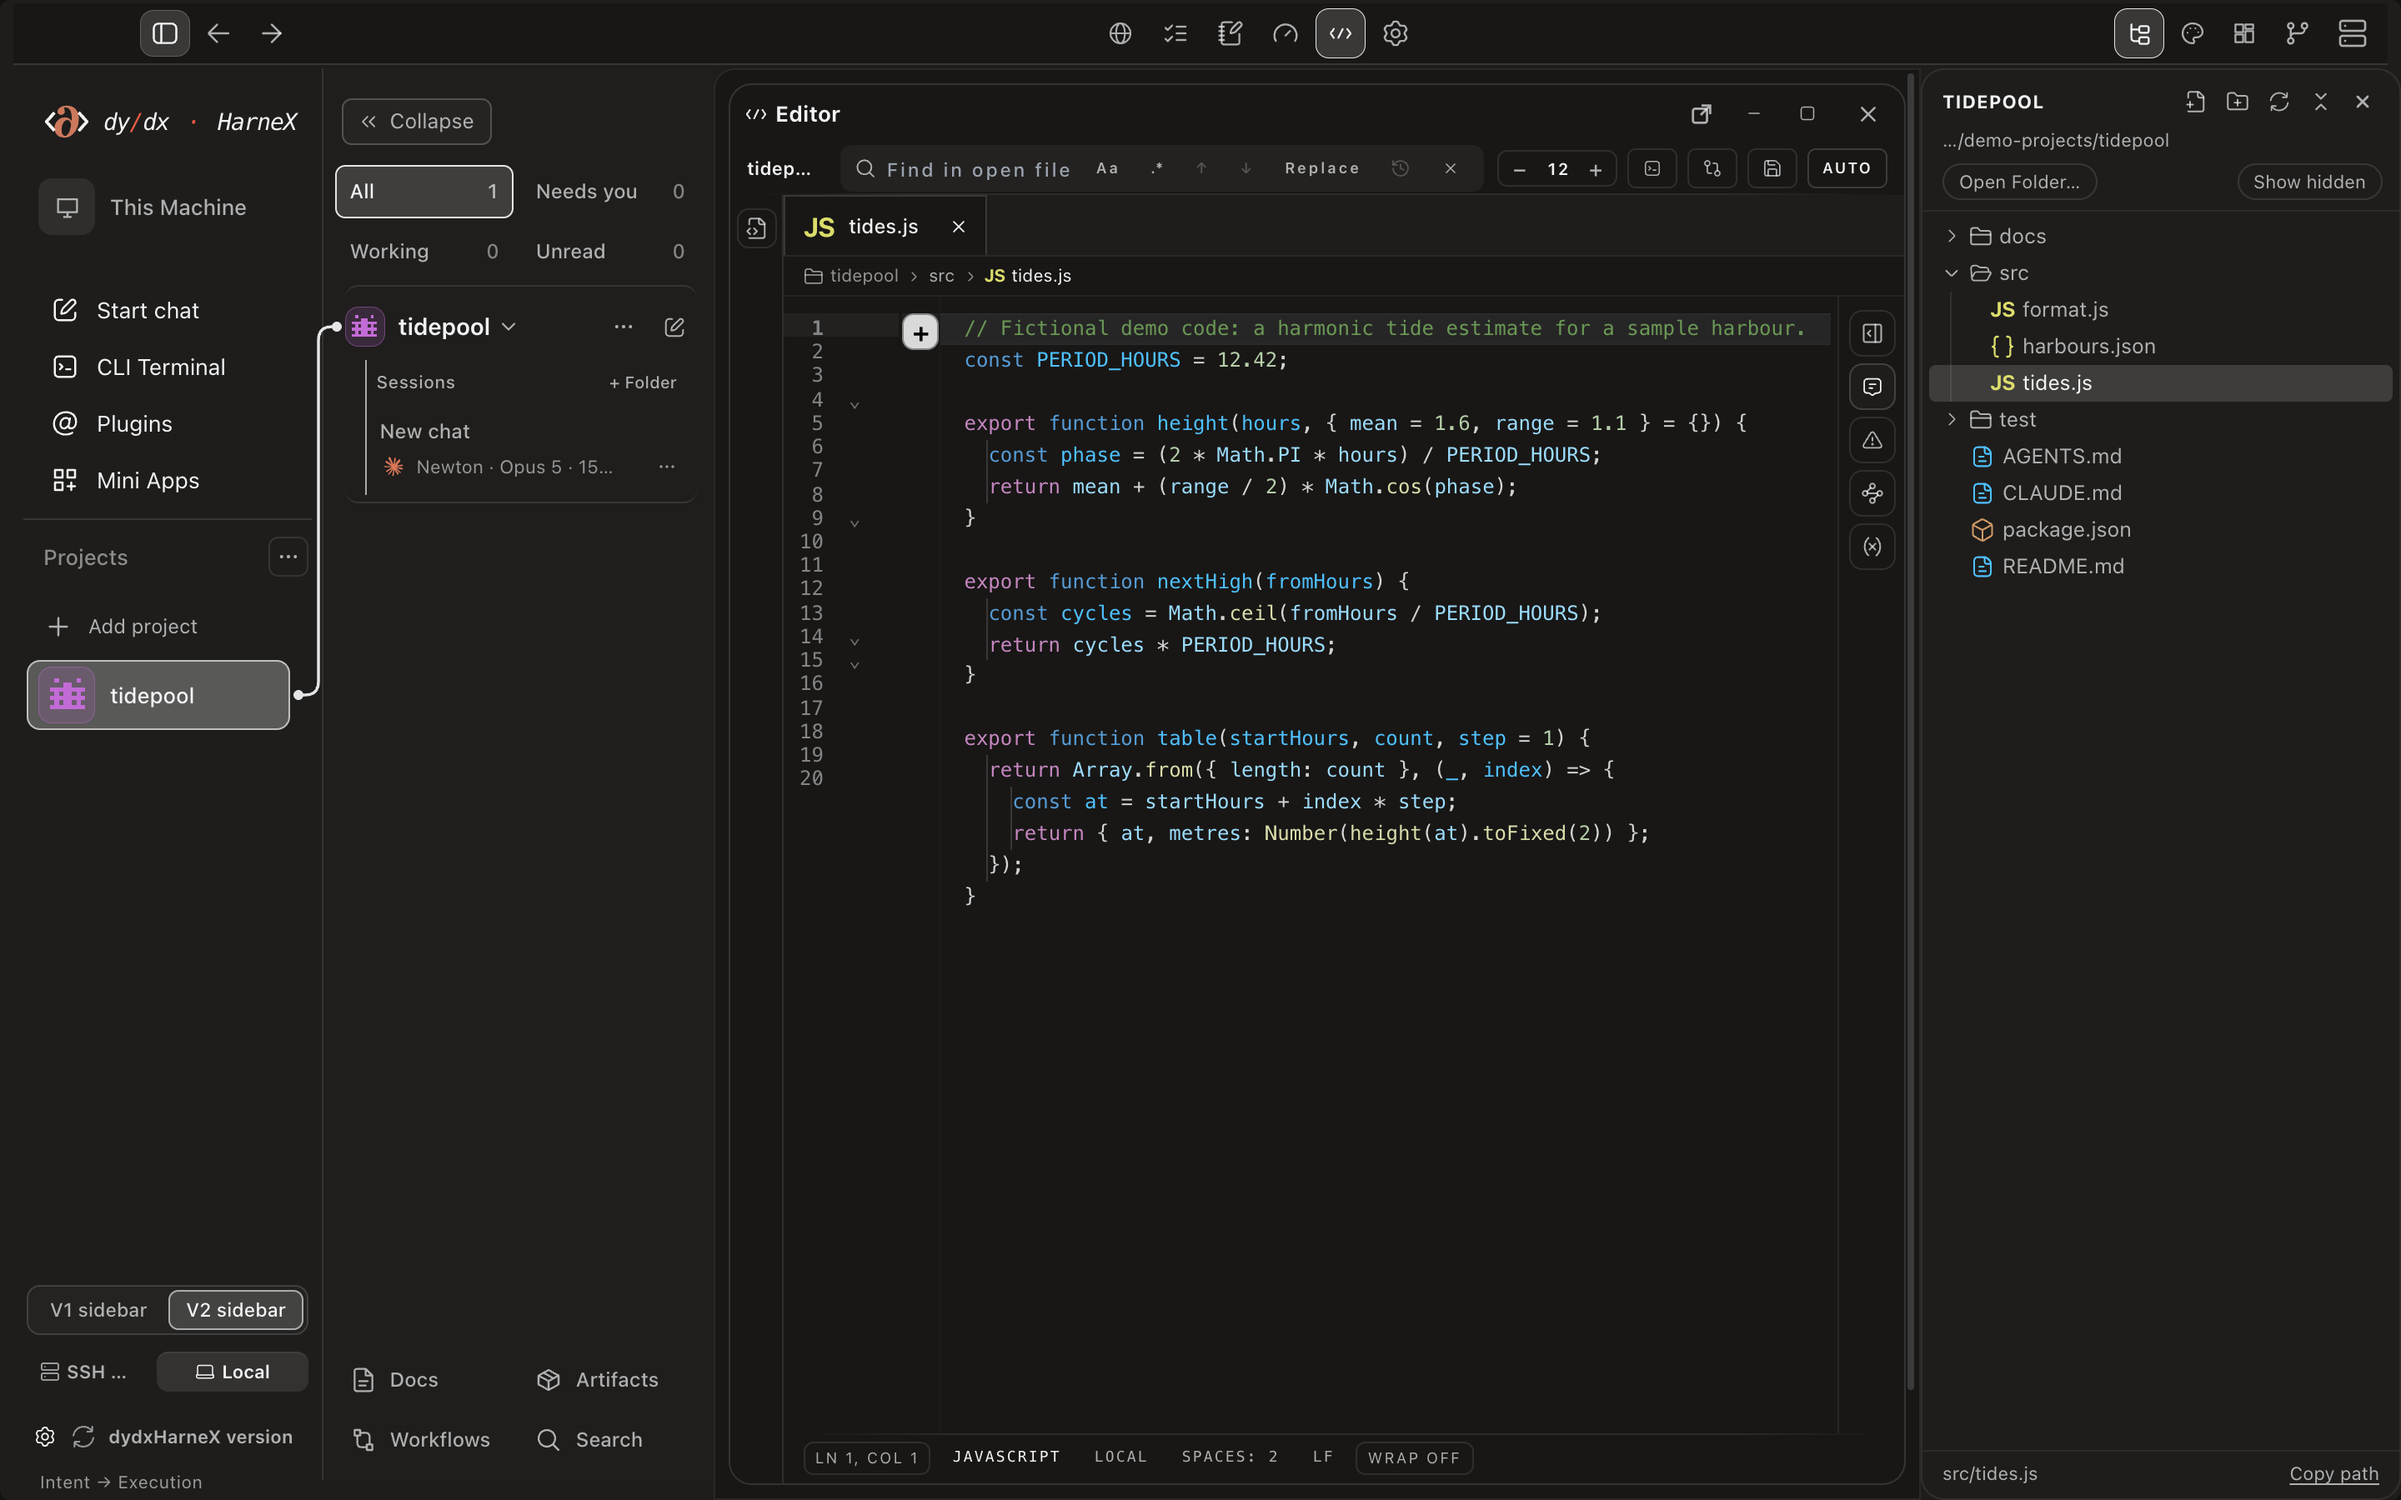
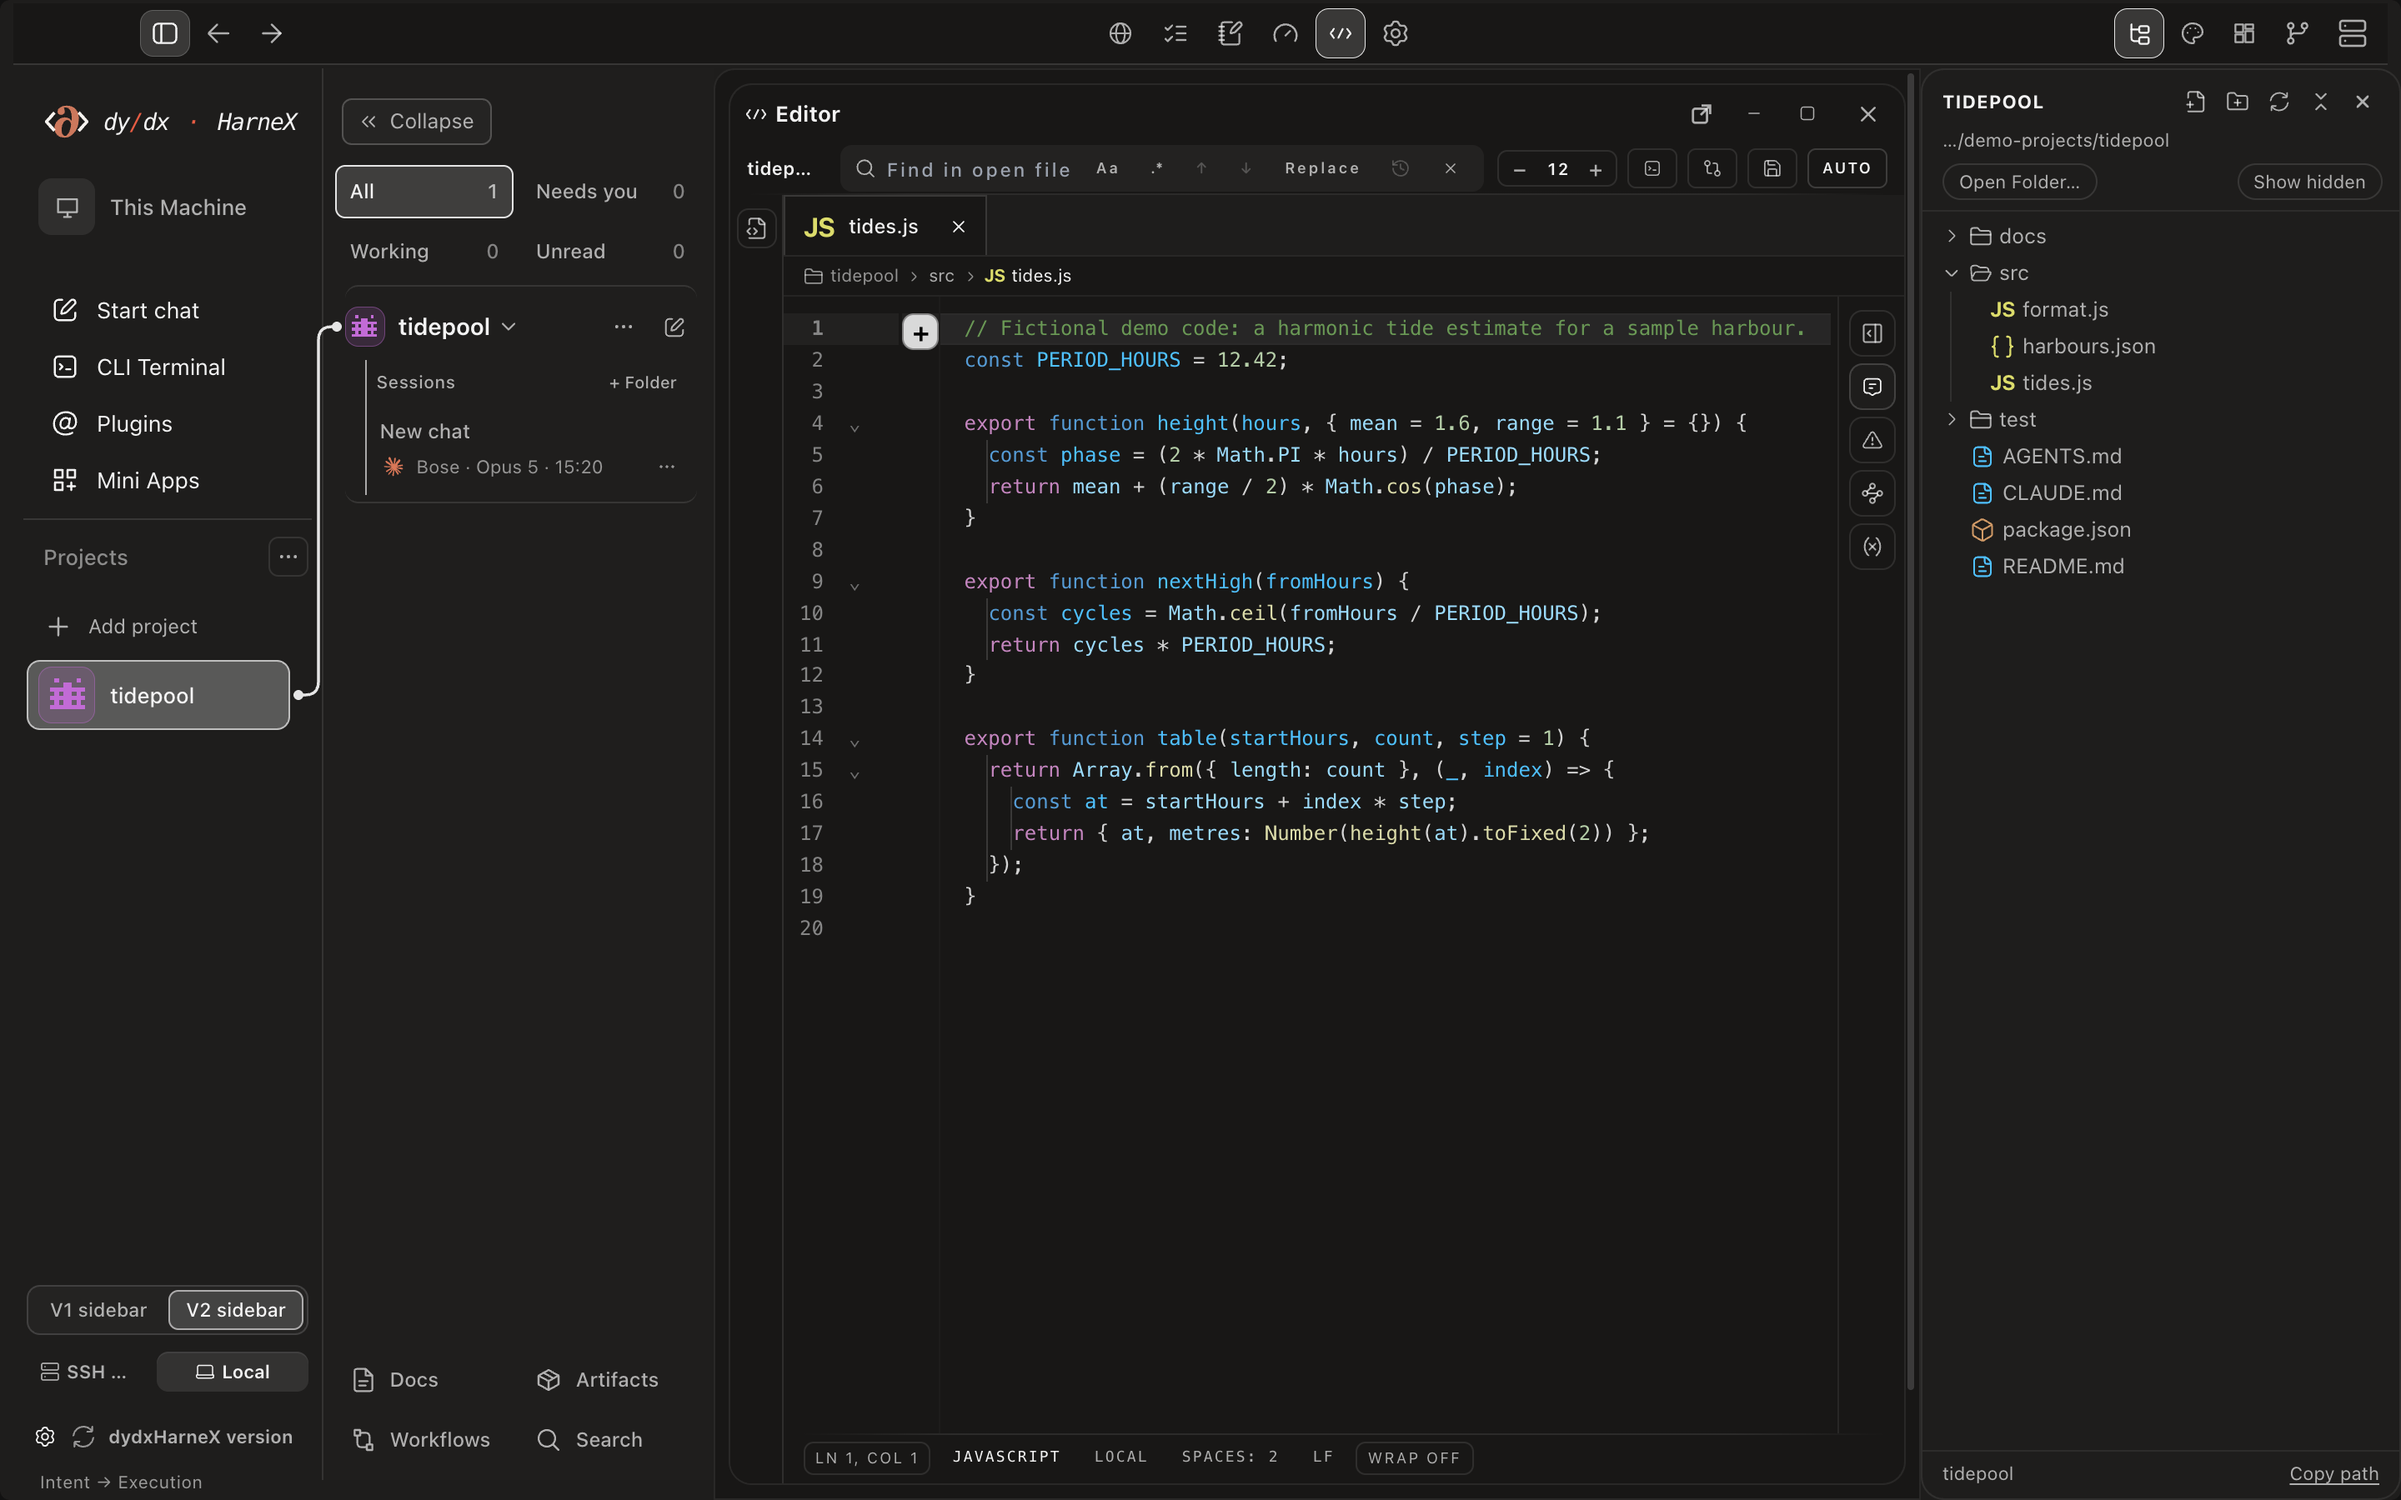
Refine the current workspace screenshot

Changed region(s): [[0.7812, 0.2178, 1.0, 0.28], [0.8125, 0.9644, 0.8438, 0.9956]]

diff --git a/README.md b/README.md
@@ -46,7 +46,7 @@
 </p>
 
 <p align="center">
-  <img src="assets/workspace-current.png" alt="The dydxHarneX User project sidebar, editor and Files panel showing fictional tidepool project files." width="100%">
+  <img src="assets/workspace-current.png?rev=870296b7" alt="The dydxHarneX User project sidebar, editor and Files panel showing fictional tidepool project files." width="100%">
 </p>
 <p align="center"><sub>The project sidebar, editor and Files panel. Captured from the Mac 0.1.53 renderer with fictional demo files; these components are unchanged in 0.1.54.</sub></p>
 
